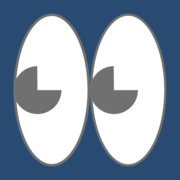
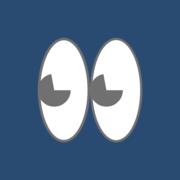
FAQページの追加　faviconの変更（イラストを小さめに）

diff --git a/components/Footer.tsx b/components/Footer.tsx
@@ -15,6 +15,11 @@ const Footer = () => {
           </Link>
         </li>
         <li>
+          <Link className="text-sm hover:underline" href="/faq">
+            FAQ
+          </Link>
+        </li>
+        <li>
           <Link
             className="text-sm hover:underline"
             href="https://forms.gle/qi3w8h1Ao6HDJbyJA"

diff --git a/app/(pages)/faq/page.tsx b/app/(pages)/faq/page.tsx
@@ -1,0 +1,10 @@
+const Page = () => {
+  return (
+    <div className="px-4 w-full max-w-2xl mx-auto">
+    <h1 className="text-3xl font-bold mb-8">FAQ</h1>
+    <p>準備中</p>
+  </div>
+  )
+}
+
+export default Page
